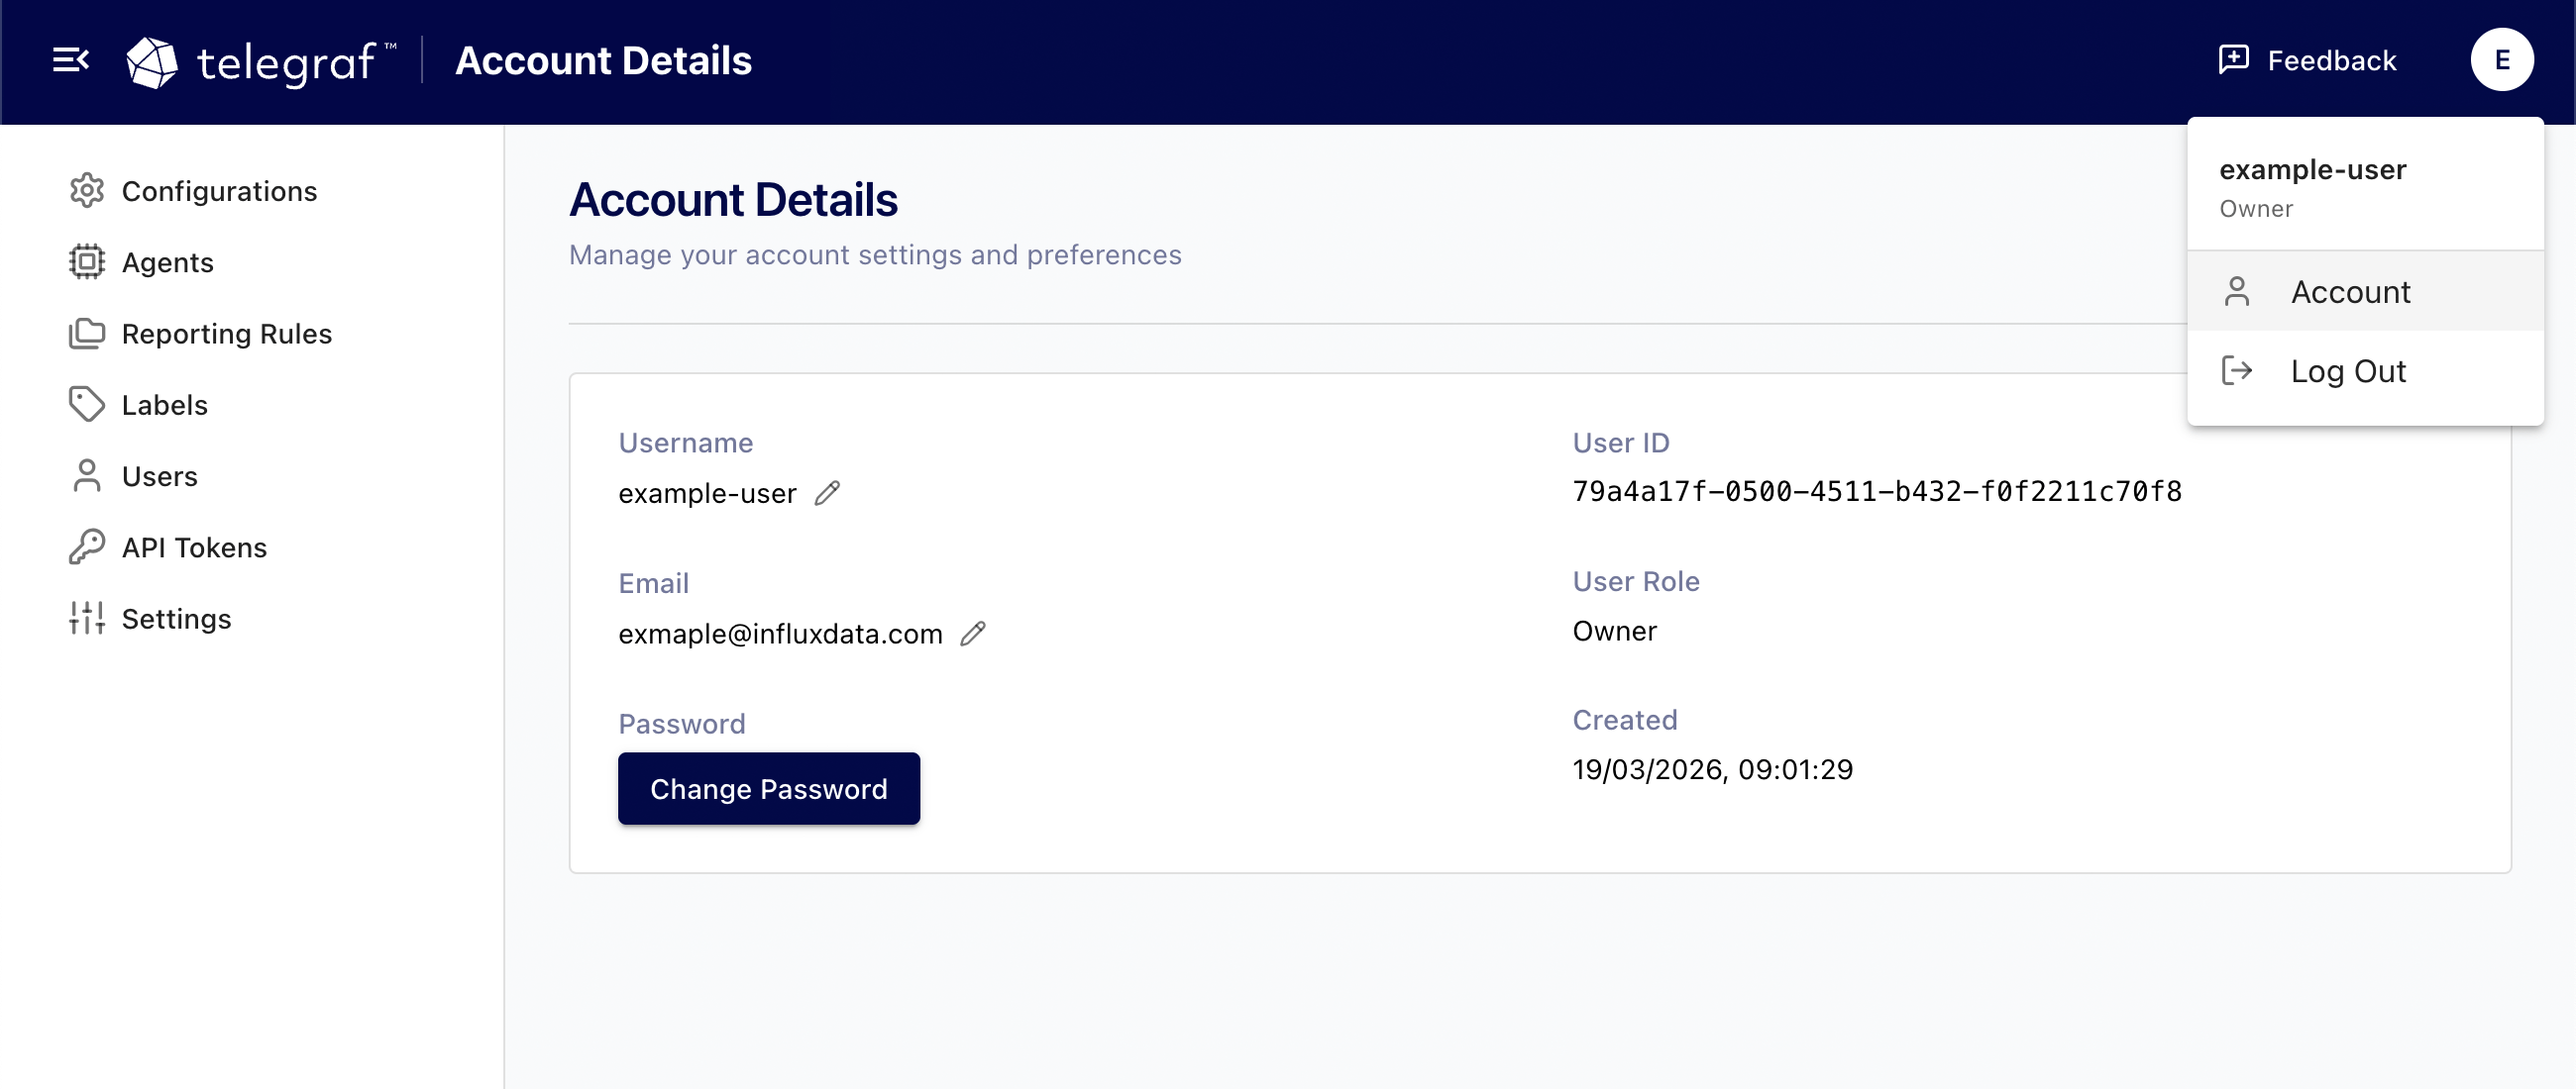
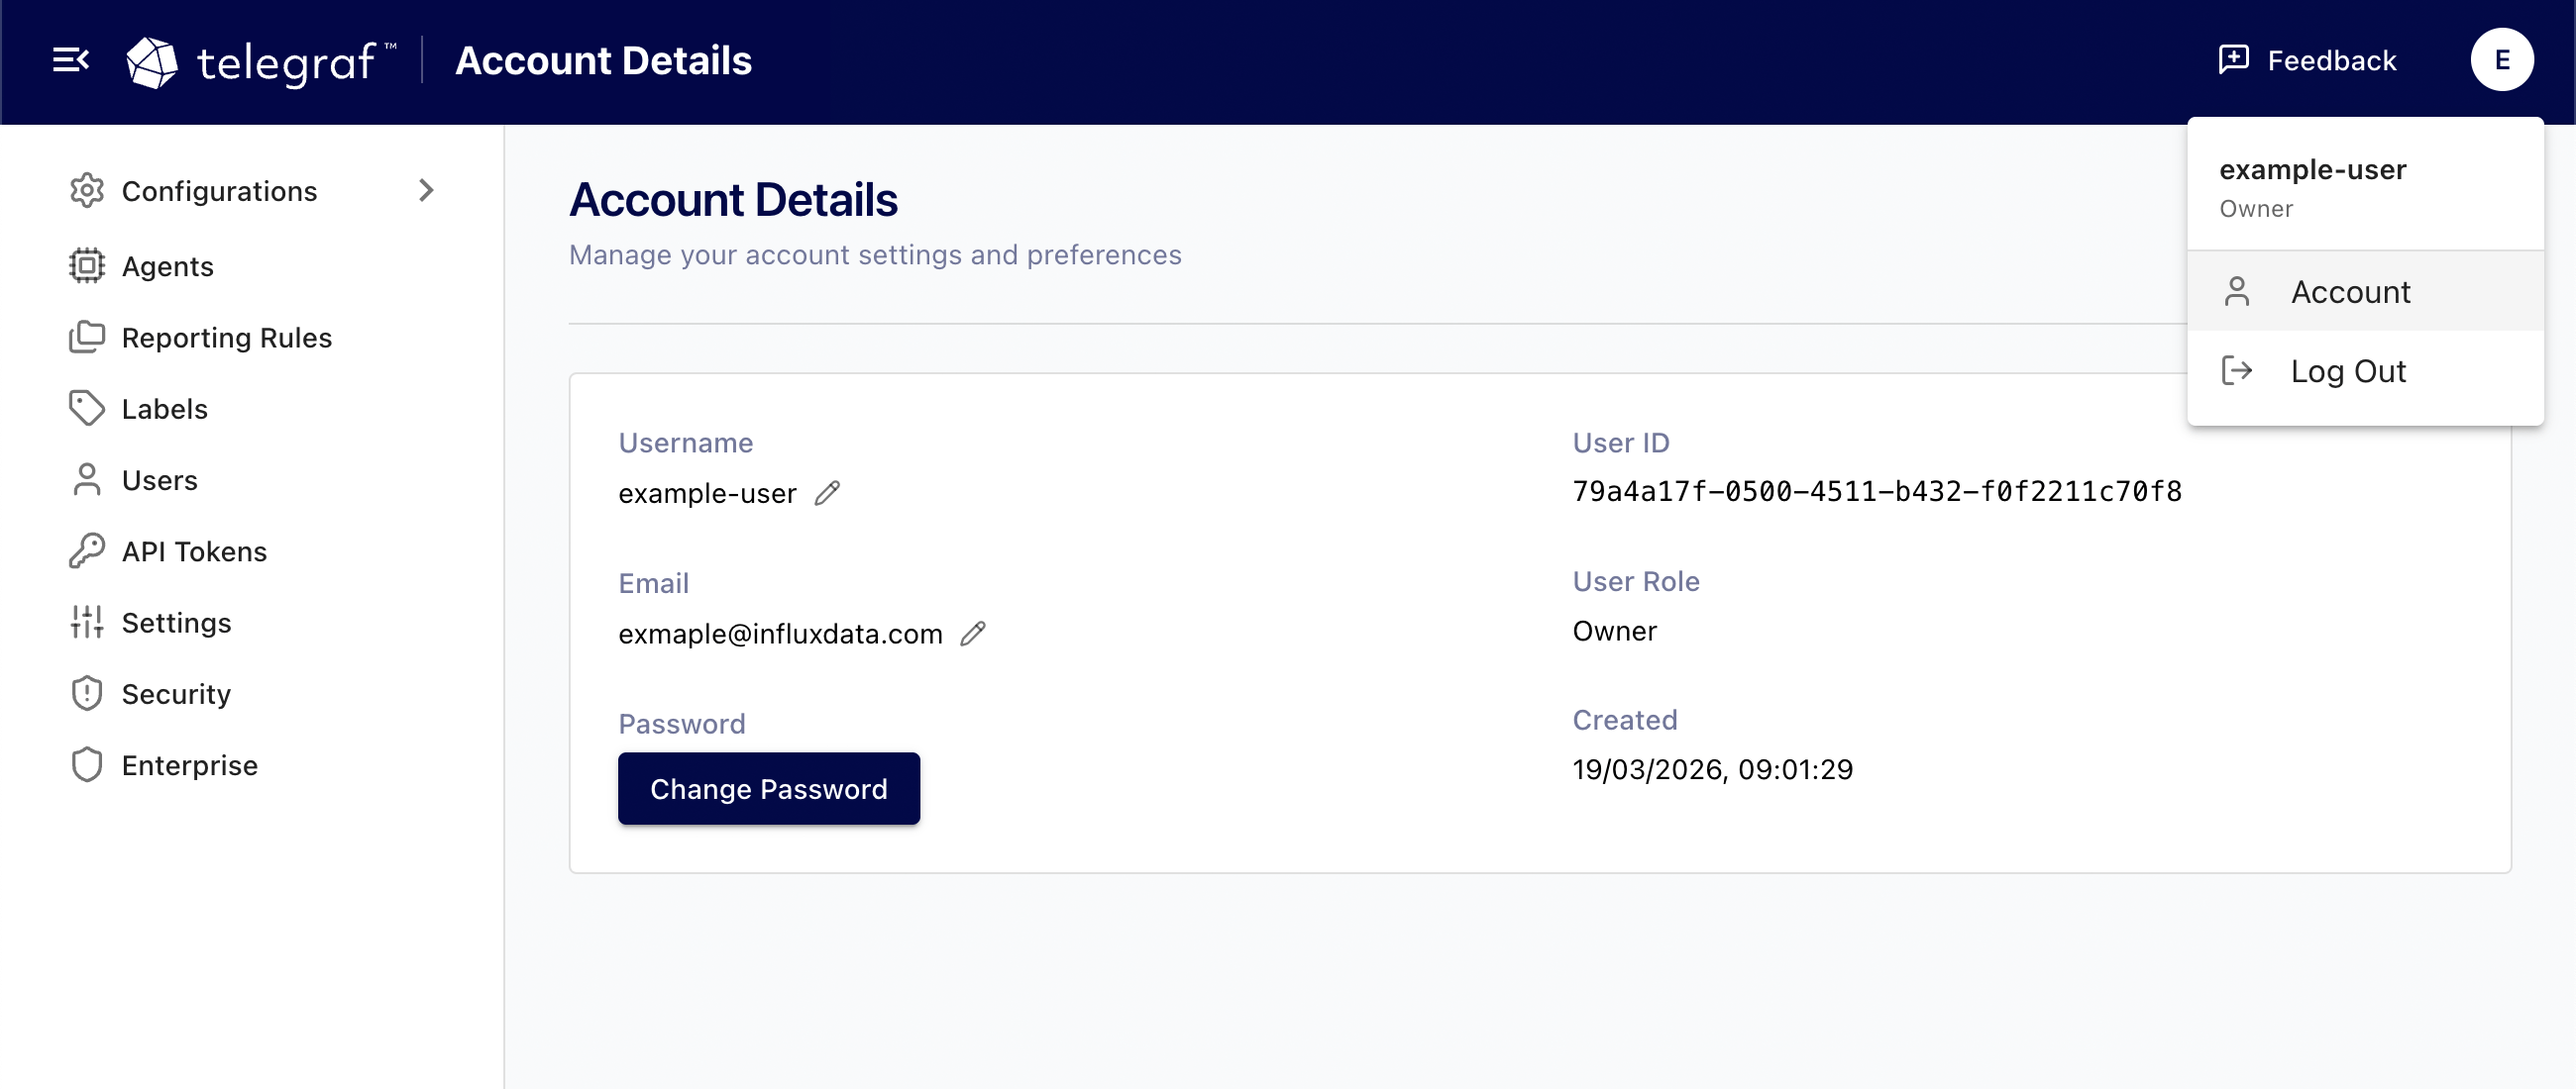
images(controller): added and updated telegraf controller images

diff --git a/content/telegraf/controller/security-advisories/view.md b/content/telegraf/controller/security-advisories/view.md
@@ -57,12 +57,6 @@ Users with write permission also see the
 See [Import an advisory file](/telegraf/controller/security-advisories/import/)
 and [Check for advisories on demand](/telegraf/controller/security-advisories/configure-checks/#check-for-advisories-on-demand).
 
-<!-- TODO: screenshot of the Security page with the overview card (Advisories
-  count, Fleet Exposure bar, Feed status) and the advisory list below it. Save
-  to /static/img/telegraf/controller-security-advisories.png and replace this
-  comment with:
-  {{< img-hd src="/img/telegraf/controller-security-advisories.png" alt="Security advisories page in Telegraf Controller" />}} -->
-
 ## Filter, search, and sort advisories
 
 The list below the overview shows every active advisory.
@@ -116,11 +110,7 @@ The same link is available from the row menu in the advisory list.
 If InfluxData withdraws an advisory after you open it, the page reports
 **Advisory Not Found**.
 
-<!-- TODO: screenshot of an advisory detail page showing the Advisory Details
-  card and the Affected Agents card. Save to
-  /static/img/telegraf/controller-security-advisory-details.png and replace
-  this comment with:
-  {{< img-hd src="/img/telegraf/controller-security-advisory-details.png" alt="Advisory details and affected agents in Telegraf Controller" />}} -->
+{{< img-hd src="/img/telegraf/controller-security-advisory-details.png" alt="Advisory details and affected agents in Telegraf Controller" />}}
 
 ## View affected agents
 
@@ -168,12 +158,6 @@ advisory.
 When no advisory applies, the card reports that no known advisories affect
 the agent, or that the agent's exposure is unknown.
 See [The agent detail page](/telegraf/controller/agents/heartbeat-data/#the-agent-detail-page).
-
-<!-- TODO: screenshot of the Agents page with the Advisories column visible
-  and the Advisory exposure filter set. Save to
-  /static/img/telegraf/controller-agents-advisory-exposure.png and replace
-  this comment with:
-  {{< img-hd src="/img/telegraf/controller-agents-advisory-exposure.png" alt="Agents page filtered by advisory exposure in Telegraf Controller" />}} -->
 
 ## Check your Telegraf Controller version
 
@@ -227,12 +211,6 @@ agents.
 
 When [audit logging](/telegraf/controller/admin/audit-logs/) is enabled, each
 acknowledgement is recorded as `advisory.feed.acknowledged`.
-
-<!-- TODO: screenshot of the "New advisories affect your fleet" banner with
-  the Acknowledge button. Save to
-  /static/img/telegraf/controller-security-advisory-banner.png and replace
-  this comment with:
-  {{< img-hd src="/img/telegraf/controller-security-advisory-banner.png" alt="New advisories banner in Telegraf Controller" />}} -->
 
 To acknowledge from the API, send the `feedTimestamp` reported in
 `banner.feedTimestamp` by the overview endpoint:

diff --git a/content/telegraf/controller/admin/monitor.md b/content/telegraf/controller/admin/monitor.md
@@ -57,11 +57,7 @@ the service is unhealthy, not only whether it responds.
 The heartbeat service health indicator appears near the bottom of the left
 navigation.
 
-<!-- TODO: screenshot of the heartbeat service health indicator near the
-  bottom of the left navigation, showing the healthy state. Save to
-  /static/img/telegraf/controller-admin-monitor-heartbeat-health-indicator.png
-  and replace this comment with:
-  {{< img-hd src="/img/telegraf/controller-admin-monitor-heartbeat-health-indicator.png" alt="Heartbeat service health indicator in the left navigation" />}} -->
+{{< img-hd src="/img/telegraf/controller-admin-monitor-heartbeat-health-indicator.png" alt="Heartbeat service health indicator in the left navigation" />}}
 
 | Status  | Indicator message                                                                                                 | Action                                                                                                                                                     |
 | :------ | :---------------------------------------------------------------------------------------------------------------- | :---------------------------------------------------------------------------------------------------------------------------------------------------------- |

diff --git a/content/telegraf/controller/tokens/preshared.md b/content/telegraf/controller/tokens/preshared.md
@@ -61,7 +61,7 @@ The value must meet the [token requirements](#token-requirements).
     described in [Create an API token](/telegraf/controller/tokens/create/).
 6.  Click **Create**.
 
-<!-- TODO: screenshot of the Create API Token dialog with the "Provide your own token string" section expanded and a value entered in the Token String field. Save to /static/img/telegraf/controller-tokens-preshared-field.png and replace this comment with: {{< img-hd src="/img/telegraf/controller-tokens-preshared-field.png" alt="Telegraf Controller create token form with a user-supplied token value" />}} -->
+{{< img-hd src="/img/telegraf/controller-tokens-preshared-field.png" alt="Telegraf Controller create token form with a user-supplied token value" />}}
 
 ### Use the API
 

diff --git a/content/telegraf/controller/agents/monitor.md b/content/telegraf/controller/agents/monitor.md
@@ -58,7 +58,7 @@ visualizations:
 The summary reflects the current filters, so you can inspect the health of a
 subset of the fleet, for example, all agents using one configuration.
 
-<!-- TODO: screenshot of the Agents page with the More details section expanded, showing the Fleet Health tiles, Telegraf Versions donut, and Last Reported histogram. Save to /static/img/telegraf/controller-agents-summary.png and replace this comment with: {{< img-hd src="/img/telegraf/controller-agents-summary.png" alt="Telegraf Controller agents page with the fleet summary expanded" />}} -->
+{{< img-hd src="/img/telegraf/controller-agents-summary.png" alt="Telegraf Controller agents page with the fleet summary expanded" />}}
 
 ## Filter the agent list
 

diff --git a/content/telegraf/controller/agents/heartbeat-data.md b/content/telegraf/controller/agents/heartbeat-data.md
@@ -54,7 +54,7 @@ select **{{% lucide "eye" %}} View Details**. The page shows:
 Click **{{% lucide "refresh-ccw" %}} Refresh** in the page header to reload
 all of it.
 
-<!-- TODO: screenshot of the agent detail page showing the Heartbeat Data card with sparklines and the Reported Logs section expanded. Save to /static/img/telegraf/controller-agent-heartbeat-data.png and replace this comment with: {{< img-hd src="/img/telegraf/controller-agent-heartbeat-data.png" alt="Telegraf Controller agent detail page with heartbeat data and reported logs" />}} -->
+{{< img-hd src="/img/telegraf/controller-agent-heartbeat-data.png" alt="Telegraf Controller agent detail page with heartbeat data and reported logs" />}}
 
 ## Heartbeat statistics
 

diff --git a/content/telegraf/controller/security-advisories/import.md b/content/telegraf/controller/security-advisories/import.md
@@ -76,10 +76,7 @@ To download the files from a terminal instead, use the `curl` commands in
     file.
 4.  Click **Import**.
 
-<!-- TODO: screenshot of the Import advisory file dialog with both files
-  selected. Save to /static/img/telegraf/controller-advisories-import-dialog.png
-  and replace this comment with:
-  {{< img-hd src="/img/telegraf/controller-advisories-import-dialog.png" alt="Import advisory file dialog in Telegraf Controller" />}} -->
+{{< img-hd src="/img/telegraf/controller-advisories-import-dialog.png" alt="Import advisory file dialog in Telegraf Controller" />}}
 
 {{% product-name %}} verifies the signature, parses the file, and compares
 its timestamp with the file already applied:
